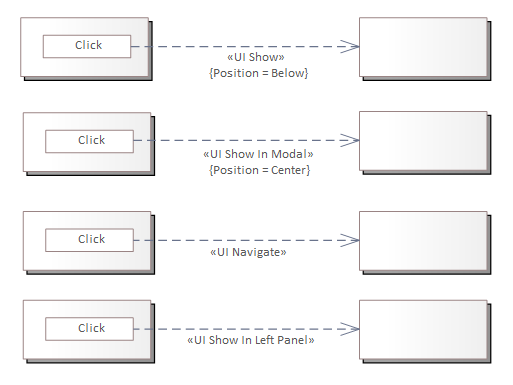
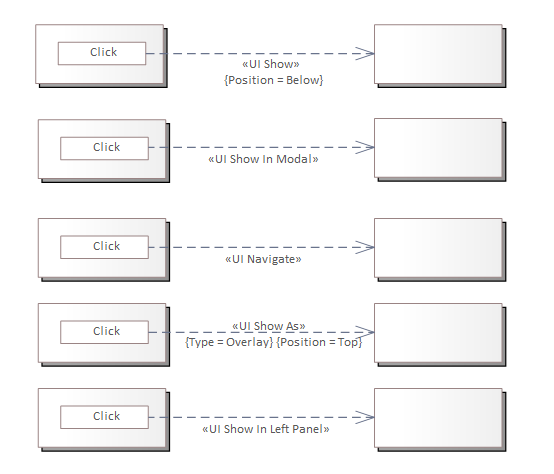
doc: Improving descriptions of `Show As` relationships
Update of relationship descriptions

Changed region(s): [[0.0312, 0.2494, 0.9669, 0.9662], [0.0312, 0.0312, 0.9669, 0.2182], [0.4055, 0.4987, 0.5614, 0.561]]

diff --git a/docs/pl/definitions/relationships.md b/docs/pl/definitions/relationships.md
@@ -47,7 +47,7 @@ Przykłady rozszerzenia przedstawione zostały na poniższym rysunku:
 Reprezentowana jest przez stereotypy:
 
 * `UI Show`,
-* `UI Show In Modal`,
+* `UI Show As`,
 * `UI Show In Left Panel`,
 * `UI Navigate`.
 
@@ -63,9 +63,9 @@ Na poniższym schemacie pokazane zostały przykłady wykorzystania relacji:
 
 Powyższy przykład pokazuje wyświetlenie komponentu po kliknięciu w przycisk w pozycji przylegającej do przycisku pod nim.
 
-### UI Show In Modal
+### UI Show As
 
-`UI Show In Modal` reprezentuje formę wyświetlenia w której komponent docelowy pokazywany jest w tzw. modalu. Oznacza to wyświetlenie wskazanego grotem strzałki elementu w warstwie przykrywającej element źródłowy i zablokowanie możliwości korzystania z elementu źródłowego. Atrybut `Position` relacji wskazuje miejsce na ekranie widocznym przez użytkownika wyświetlania elementu. Podana w przykładzie wartość `Center` wycentrowanie zarówno w pionie, jak i w poziomie.
+`UI Show As` reprezentuje formę wyświetlenia w której komponent docelowy jest  pokazywany zależnie od ustawienia cech relacji. Oznacza to wyświetlenie wskazanego grotem strzałki elementu w warstwie przykrywającej element źródłowy, w formie określanej atrybutem `type` i miejscu wskazywanym atrybutem `position`.
 
 ### UI Navigate
 

diff --git a/docs/en/definitions/relationships.md b/docs/en/definitions/relationships.md
@@ -63,9 +63,9 @@ The following diagram shows examples of using the display relationship:
 
 The example shows displaying a component below the button, adjacent to it.
 
-### UI Show In Modal
+### UI Show As
 
-`UI Show In Modal` represents a display form where the target component is shown in a modal. This means displaying the element indicated by the arrowhead in a layer that overlays the source element, blocking interaction with it. The `Position` attribute on the relationship specifies the location on the user’s screen where the element is displayed. The example shows the value `Center` for centering both vertically and horizontally.
+The `UI Show As` represents the form of display in which the target component is shown depending on the setting of the relationship attributes. This means displaying the component indicated by the arrowhead, in the layer covering the source component, in the form specified by the `type` attribute and the location indicated by the `position` attribute.
 
 ### UI Navigate
 

diff --git a/docs/pl/definitions/basic-elements.md b/docs/pl/definitions/basic-elements.md
@@ -15,6 +15,7 @@ Zaliczamy do nich:
 * pole statycznego tekstu (`static text`)
 * pole edycyjne do wprowadzania tekstu (`textarea`)
 * zakładka (`tab`)
+* pole podglądu wartości danej (`labelled data`)
 
 Stanowią atomowe elementy konstrukcji modeli. Układane powinny być jako części składowe komponentów lub paneli.
 
